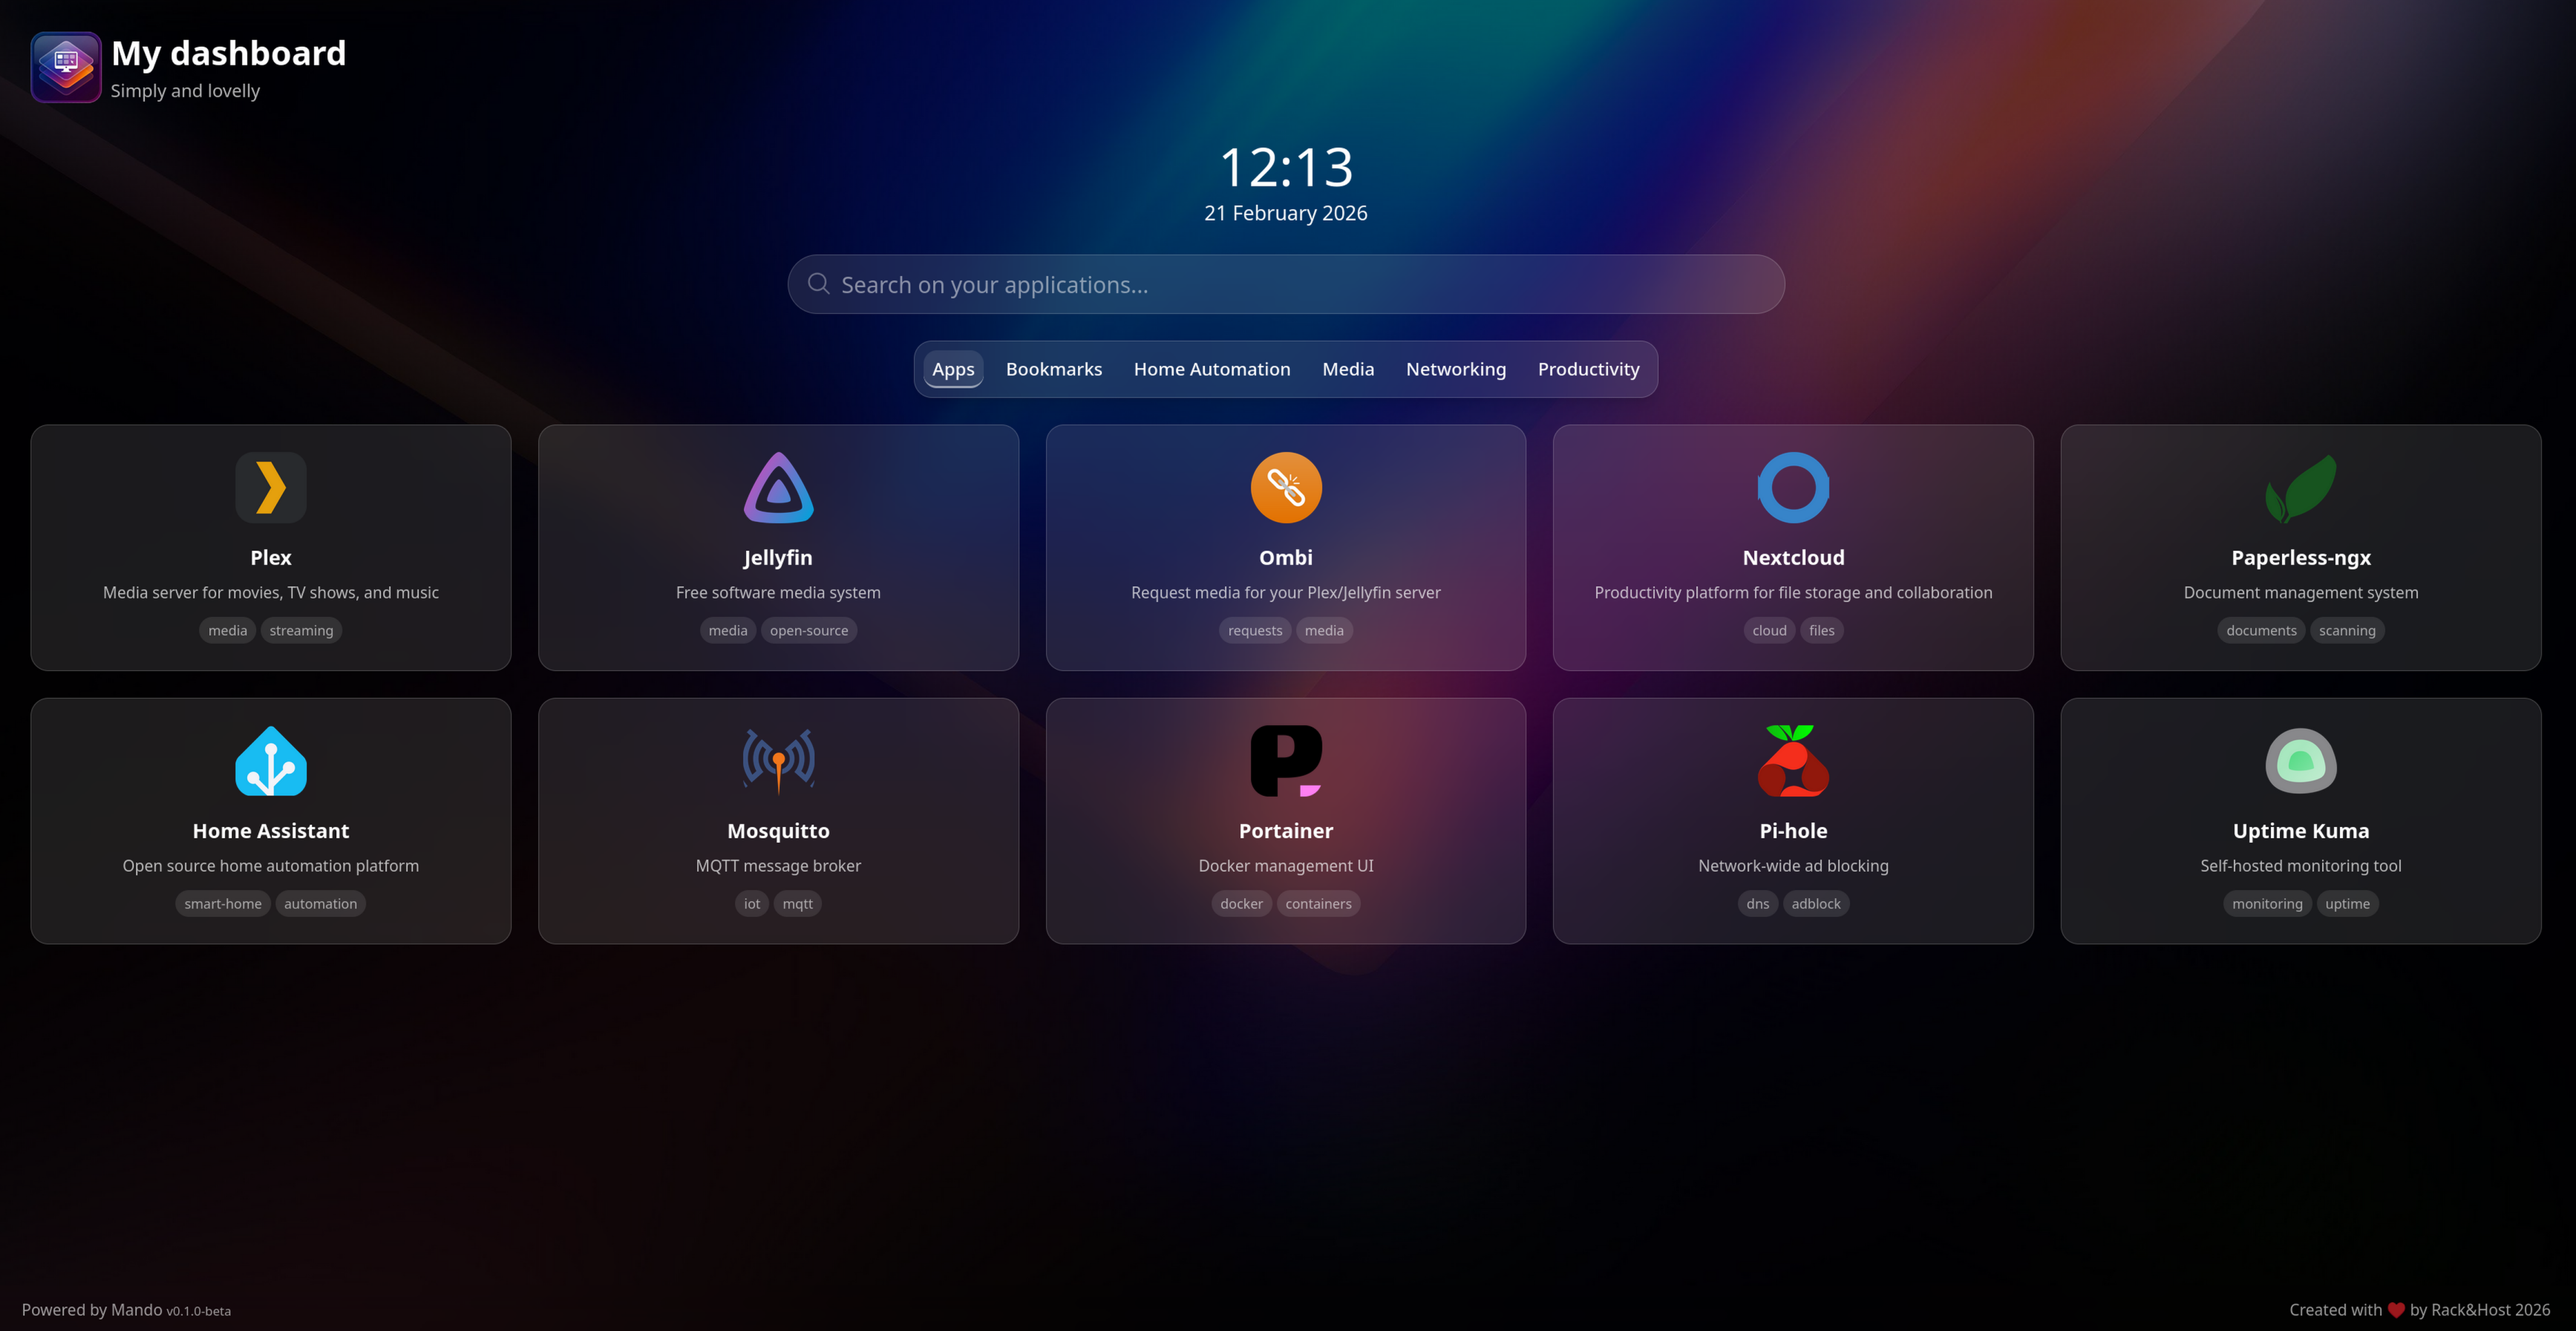
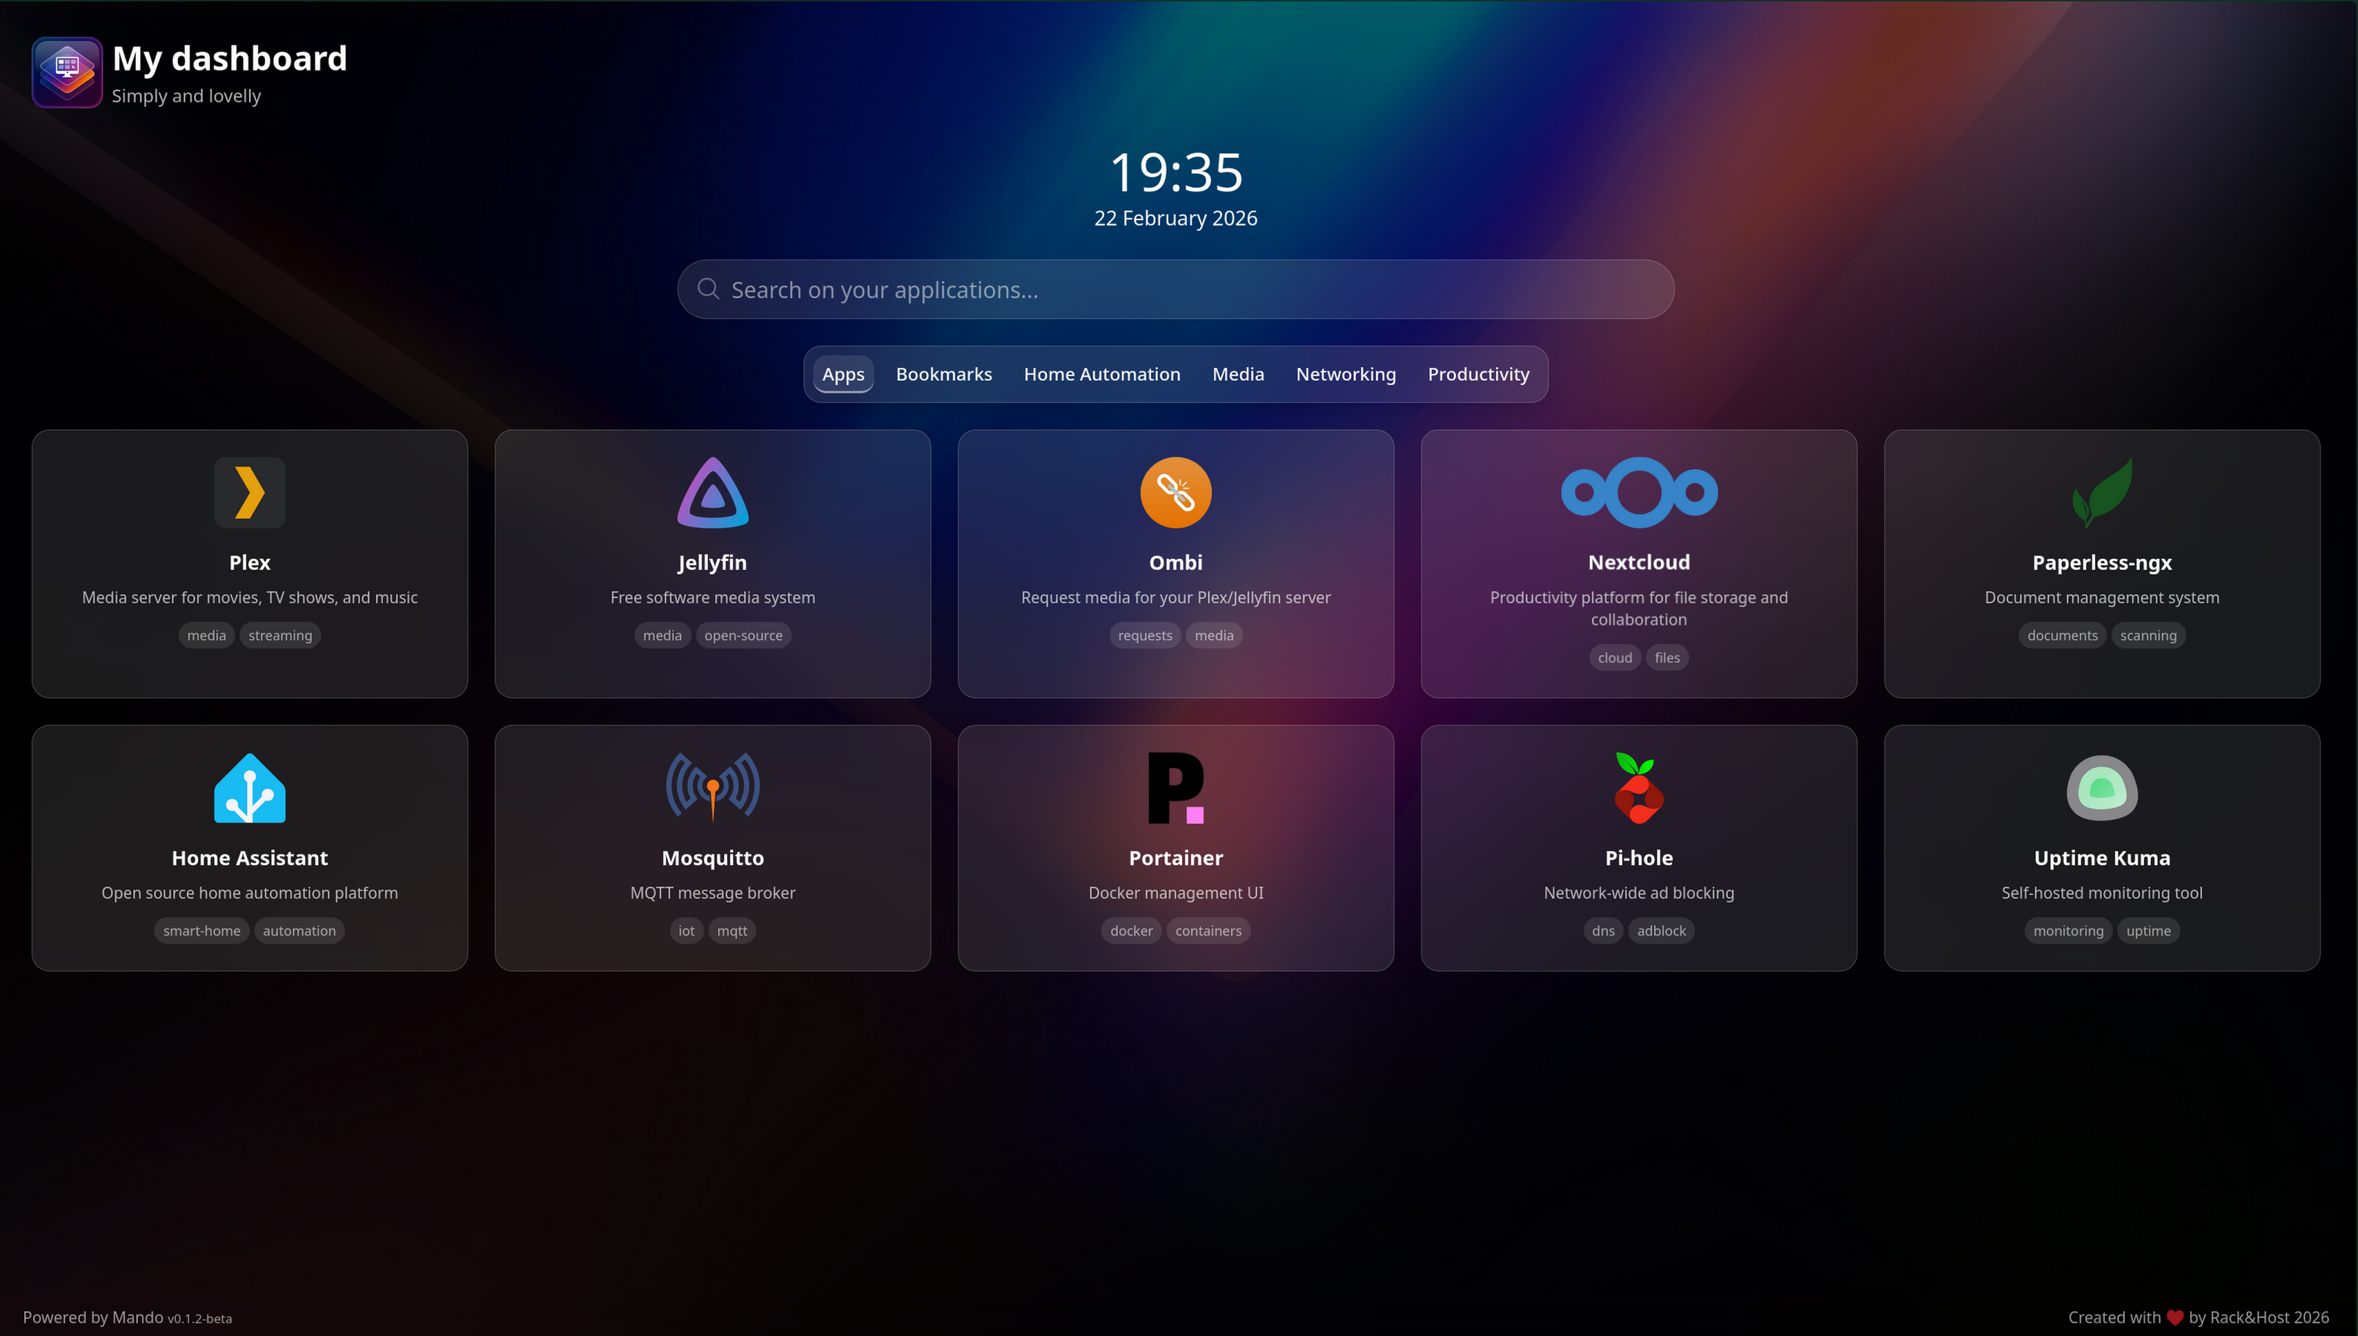
docs(README.md): Add new screenshot and update version

diff --git a/README.md b/README.md
@@ -6,13 +6,13 @@
   <em>A simply and beautiful dashboard</em>
 </p>
 
-![Version](https://img.shields.io/badge/version-0.1.1--beta-orange)
+![Version](https://img.shields.io/badge/version-0.1.2--beta-orange)
 ![Angular](https://img.shields.io/badge/Angular-21.1.0-red)
 ![TypeScript](https://img.shields.io/badge/TypeScript-5.9-blue)
 ![License](https://img.shields.io/badge/license-MIT-green)
 
 > **⚠ BETA RELEASE WARNING**  
-> This project is currently in **beta testing** (v0.1.1-beta). Features may change, bugs are expected, and the API could evolve. Use at your own risk in production environments. Feedback and bug reports are highly appreciated!
+> This project is currently in **beta testing** (v0.1.2-beta). Features may change, bugs are expected, and the API could evolve. Use at your own risk in production environments. Feedback and bug reports are highly appreciated!
 
 ---
 
@@ -224,7 +224,7 @@ settings:
  ```yaml
 services:
   dashboard:
-    image: ghcr.io/rackandhost/getmando:0.1.1
+    image: ghcr.io/rackandhost/getmando:0.1.2
     container_name: getmando-dashboard
     ports:
       - '8080:80'
@@ -261,7 +261,7 @@ docker run -d \
   -p 8080:80 \
   -v $(pwd)/config/dashboard.yaml:/app/config/dashboard.yaml:ro \
   --restart unless-stopped \
-  ghcr.io/rackandhost/getmando:0.1.1
+  ghcr.io/rackandhost/getmando:0.1.2
 ```
 
 ---
@@ -540,7 +540,7 @@ Build artifacts are created in the `dist/` directory.
 
 ## 🗺 Roadmap
 
-### Current Beta (v0.1.1-beta)
+### Current Beta (v0.1.2-beta)
 - ✅ Core dashboard functionality
 - ✅ YAML configuration
 - ✅ Search and filtering
